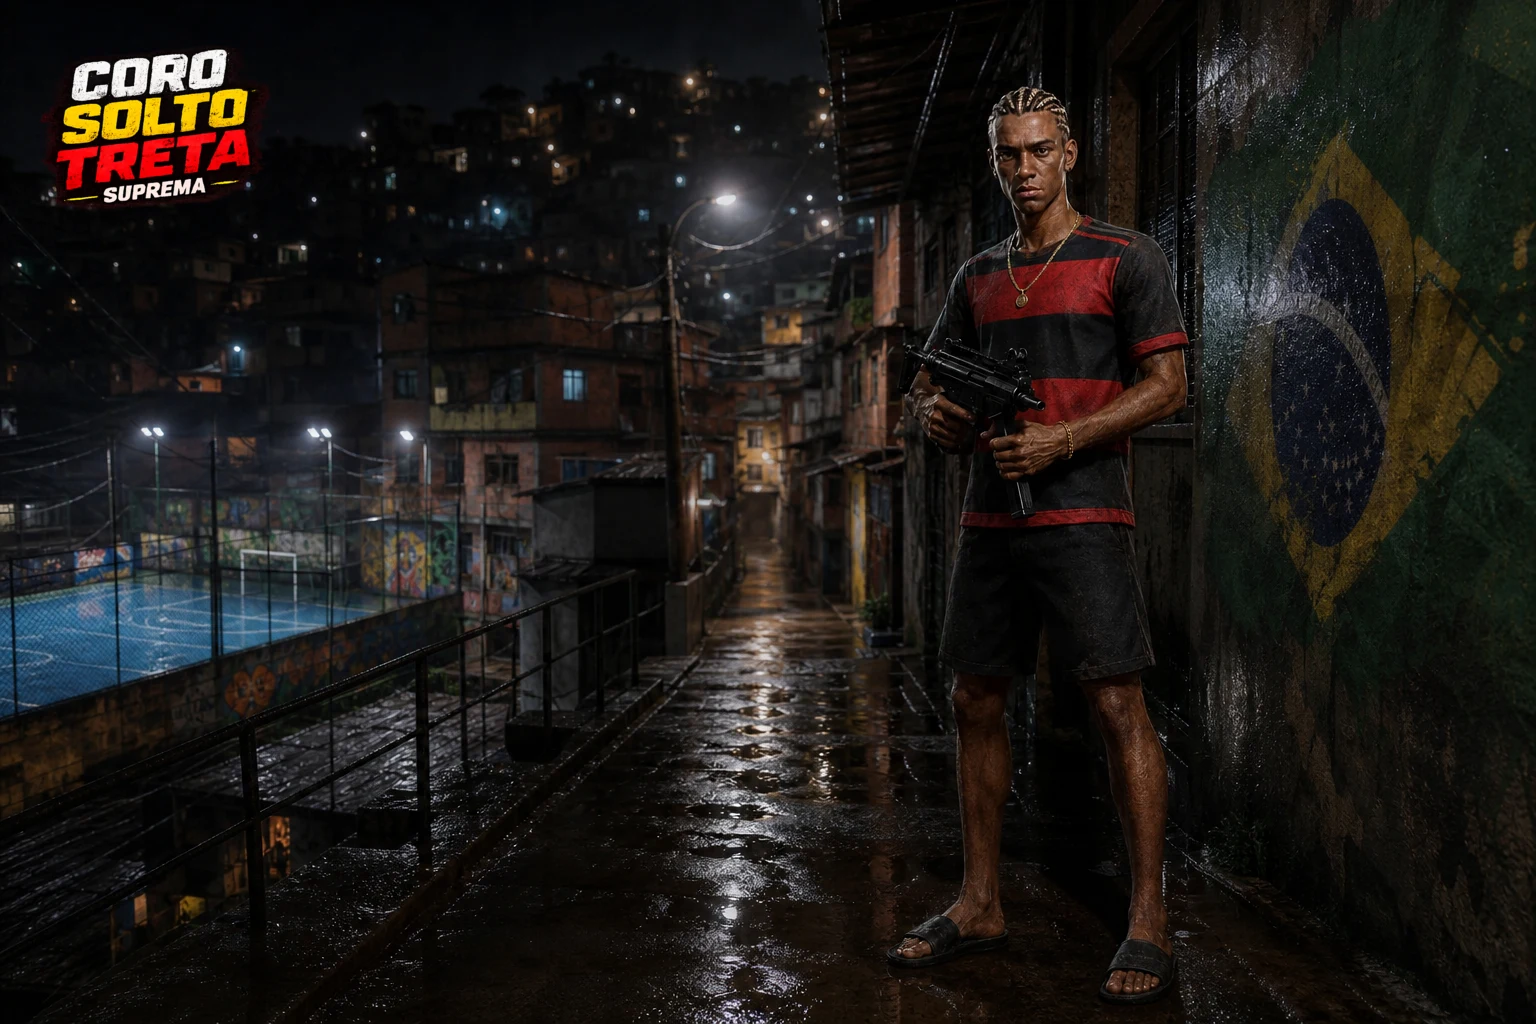
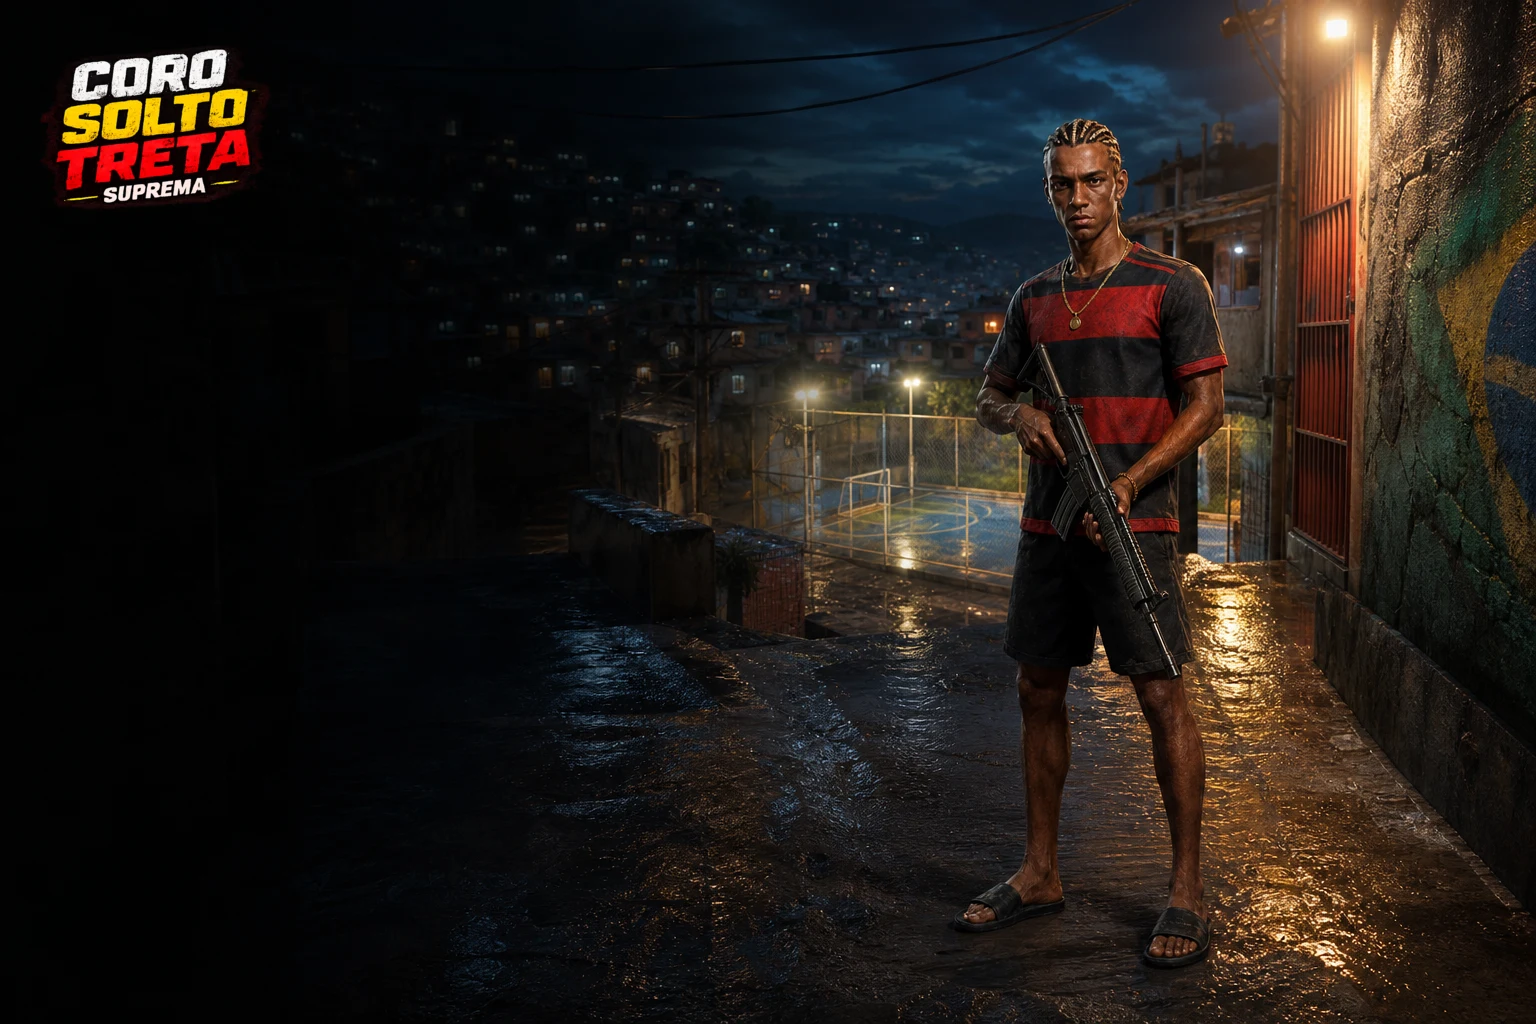
feat: ampliar rotação com Míticos
Renova os wallpapers dos personagens atuais e adiciona Maria Bonita, Saci, Lampião, Lobisomem, Bandeirante, Boto, Zumbi, Cuca e Curupira. As armas agora variam por personagem e todas as artes carregam o logo oficial.

Commit-grande: atualização atômica do catálogo com 19 fontes, 19 derivados 3:2 e manifestos correspondentes.
Agent: Codex

diff --git a/public/js/main.js b/public/js/main.js
@@ -373,7 +373,7 @@ const factionArtReady = Promise.all(factionArtImages.map((image) => (
   })
 ))).catch((error) => console.warn('[facções] preload parcial', error));
 
-/* Wallpapers rotativos (wall-10..19): 1 por tela no fluxo home→setup→lado→personagem, sem
+/* Wallpapers rotativos (wall-10..28): 1 por tela no fluxo home→setup→lado→personagem, sem
    repetir; o offset rotaciona a cada acesso (localStorage) pra variar entre visitas.
 
    Estes arrays são fallback do primeiro quadro. A fonte de verdade é
@@ -385,7 +385,9 @@ const factionArtReady = Promise.all(factionArtImages.map((image) => (
    na pasta como fonte; wallpaper novo entra como PNG e vira .webp no mesmo commit. */
 const WALLS = ['/img/wall-10.webp', '/img/wall-11.webp', '/img/wall-12.webp', '/img/wall-13.webp',
   '/img/wall-14.webp', '/img/wall-15.webp', '/img/wall-16.webp', '/img/wall-17.webp',
-  '/img/wall-18.webp', '/img/wall-19.webp'];
+  '/img/wall-18.webp', '/img/wall-19.webp', '/img/wall-20.webp', '/img/wall-21.webp',
+  '/img/wall-22.webp', '/img/wall-23.webp', '/img/wall-24.webp', '/img/wall-25.webp',
+  '/img/wall-26.webp', '/img/wall-27.webp', '/img/wall-28.webp'];
 let _wallVisit = 0;
 try {
   _wallVisit = parseInt(localStorage.getItem('cs_wallK') || '-1', 10) + 1;
